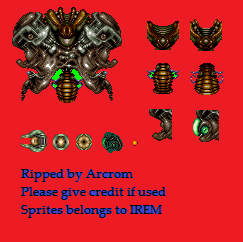
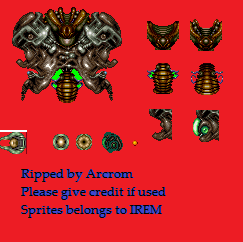
worm inici

Changed region(s): [[0.0, 0.5207, 0.2016, 0.6364]]

diff --git a/assets/Resources/main/characters/enemies/Worm.cpp b/assets/Resources/main/characters/enemies/Worm.cpp
@@ -5,13 +5,23 @@ Worm::Worm(glm::mat4 *project, int id, const glm::ivec2 &tileMapPos) :Character(
 }
 
 void Worm::init(const glm::ivec2 &tileMapPos) {
-	bJumping = false;
+	tileMapDispl = tileMapPos;
 
+	for (int i = 0; i <= 8; ++i) {
+		parts.push_back(new Part(projection,id,i,tileMapPos));
+	}
+
+
+	spritesheet.loadFromFile("images/enemies/Boss.png", TEXTURE_PIXEL_FORMAT_RGBA);
+	spritesheet.setWrapS(GL_CLAMP_TO_EDGE);
+	spritesheet.setWrapT(GL_CLAMP_TO_EDGE);
+	spritesheet.setMinFilter(GL_NEAREST);
+	spritesheet.setMagFilter(GL_NEAREST);
 	sprite = Sprite::createSprite(glm::ivec2(256, 128), glm::vec2(1 / 2.0, 1 / 2.0), &spritesheet, projection);
 	sprite->setNumberAnimations(1);
 
 	sprite->setAnimationSpeed(STAND_RIGHT, 8);
-	sprite->addKeyframe(STAND_RIGHT, glm::vec2(0.0625*0.0, 0.f));
+	sprite->addKeyframe(STAND_RIGHT, glm::vec2(0.0625*1.0, 0.f));
 
 	sprite->changeAnimation(0, false);
 	tileMapDispl = tileMapPos;
@@ -24,19 +34,37 @@ void Worm::init(const glm::ivec2 &tileMapPos) {
 #endif // SHOW_HIT_BOXES
 
 	sprite->setPosition(glm::vec2(float(tileMapDispl.x + pos.x), float(tileMapDispl.y + pos.y)));
+
 }
 
 void Worm::update(int deltaTime)
 {
-	/*  sprite->update(deltaTime);
-	pos.x += 2;
-	sprite->setPosition(glm::vec2(float(tileMapDispl.x + pos.x), float(tileMapDispl.y + pos.y)))^*/
+	for (int i = 0; i < parts.size(); ++i) {
+		parts[i]->update(deltaTime);
+	}
+}
+
+void Worm::render()
+{
+	for (int i = 0; i < parts.size(); ++i) {
+		parts[i]->render();
+	}
+}
+
+void Worm::setPosition(const glm::vec2 &pos) {
+	for (int i = 0; i < parts.size(); ++i) {
+		glm::vec2 aux = glm::vec2 (pos.x+i*20, pos.y);
+		parts[i]->setPosition(aux);
+	}
+	this->pos = pos;
+	sprite->setPosition(glm::vec2(float(tileMapDispl.x + pos.x), float(tileMapDispl.y + pos.y)));
+	collider->changePositionAbsolute(glm::vec2(tileMapDispl.x + pos.x, tileMapDispl.y + pos.y));
 }
 
 
 
-
-Part::Part(glm::mat4 *project, int id, const glm::ivec2 &tileMapPos) :Character(project, id, Collision::Enemy) {
+Part::Part(glm::mat4 *project, int id, int idBody, const glm::ivec2 &tileMapPos) :Character(project, id, Collision::Enemy) {
+	this->idBody = idBody;
 	init(tileMapPos);
 }
 
@@ -47,16 +75,31 @@ void Part::init(const glm::ivec2 &tileMapPos) {
 	spritesheet.setWrapT(GL_CLAMP_TO_EDGE);
 	spritesheet.setMinFilter(GL_NEAREST);
 	spritesheet.setMagFilter(GL_NEAREST);
-	sprite = Sprite::createSprite(glm::ivec2(256, 128), glm::vec2(1 / 2.0, 1 / 2.0), &spritesheet, projection);
-	if (id = 0) {
+	if (idBody == 0) {
+		sprite = Sprite::createSprite(glm::ivec2(26, 22), glm::vec2(1.f / 9.34f, 1.f / 11.f), &spritesheet, projection);
 		sprite->setNumberAnimations(1);
 
-		sprite->setAnimationSpeed(STAND_RIGHT, 8);
-		sprite->addKeyframe(STAND_RIGHT, glm::vec2(0.0625*0.0, 0.f));
+		sprite->setAnimationSpeed(0, 8);
+		sprite->addKeyframe(0, glm::vec2(1.f / 9.34f*0.f, 1.f / 11.f*6.f));
 	}
-	else if (id =8) {
+	else if (idBody == 8) {
+		sprite = Sprite::createSprite(glm::ivec2(16, 16), glm::vec2(1 / 16.0, 1 / 16.0), &spritesheet, projection);
+		sprite->setNumberAnimations(1);
+
+		sprite->setAnimationSpeed(0, 8);
+		sprite->addKeyframe(0, glm::vec2(0.0625f*4.f, 0.0625f*5.f));
+		rotate(0.f,180.f, 0.f);
 	}
 	else {
+		sprite = Sprite::createSprite(glm::ivec2(16, 16), glm::vec2(1.f / 20.f, 1 / 16.0), &spritesheet, projection);
+		sprite->setNumberAnimations(2);
+
+		sprite->setAnimationSpeed(0, 8);
+		sprite->addKeyframe(0, glm::vec2(1.f/12.5f*3.f, 0.0625f*9.f));
+		rotate(0.f, 180.f, 0.f);
+		sprite->setAnimationSpeed(1, 8);
+		sprite->addKeyframe(1, glm::vec2(0.0625f*5.f, 0.0625f*5.f));
+		rotate(0.f, 180.f, 0.f);
 	}
 	
 

diff --git a/assets/Resources/main/scenes/GameScene.cpp b/assets/Resources/main/scenes/GameScene.cpp
@@ -37,7 +37,11 @@ void GameScene::init() {
 	cFactory->setMap(map);
 
 	cFactory->spawnCharacter(CharacterFactory::CharacterAvailable::cPlayer, glm::vec2(INIT_PLAYER_X_TILES * map->getTileSize()-100, INIT_PLAYER_Y_TILES * map->getTileSize()+50));
-	cFactory->spawnCharacter(CharacterFactory::CharacterAvailable::cBoss, glm::vec2(INIT_PLAYER_X_TILES * map->getTileSize(), INIT_PLAYER_Y_TILES * map->getTileSize()));
+	cFactory->spawnCharacter(CharacterFactory::CharacterAvailable::cWorm, glm::vec2(INIT_PLAYER_X_TILES * map->getTileSize(), INIT_PLAYER_Y_TILES * map->getTileSize()));
+	cFactory->spawnCharacter(CharacterFactory::CharacterAvailable::cEnemy1, glm::vec2(INIT_PLAYER_X_TILES * map->getTileSize() + 20, INIT_PLAYER_Y_TILES * map->getTileSize()+20));
+	cFactory->spawnCharacter(CharacterFactory::CharacterAvailable::cEnemy2, glm::vec2(INIT_PLAYER_X_TILES * map->getTileSize() + 40, INIT_PLAYER_Y_TILES * map->getTileSize() + 20));
+	cFactory->spawnCharacter(CharacterFactory::CharacterAvailable::cEnemy3, glm::vec2(INIT_PLAYER_X_TILES * map->getTileSize() + 60, INIT_PLAYER_Y_TILES * map->getTileSize() + 20));
+	cFactory->spawnCharacter(CharacterFactory::CharacterAvailable::cEnemy4, glm::vec2(INIT_PLAYER_X_TILES * map->getTileSize() + 80, INIT_PLAYER_Y_TILES * map->getTileSize() + 20));
 
 }
 

diff --git a/assets/Resources/main/characters/enemies/Worm.h b/assets/Resources/main/characters/enemies/Worm.h
@@ -2,7 +2,20 @@
 #define _WORM_INCLUDE
 
 #include "characters\Character.h"
+#include <vector>
 
+class Part : public Character {
+public:
+
+	Part(glm::mat4 *project, int id, int idBody, const glm::ivec2 &tileMapPos);
+
+	void update(int deltaTime);
+
+private:
+
+	void init(const glm::ivec2 &tileMapPos);
+	int idBody;
+};
 
 class Worm : public Character {
 
@@ -11,22 +24,14 @@ public:
 	Worm(glm::mat4 *project, int id, const glm::ivec2 &tileMapPos);
 
 	void update(int deltaTime);
+	void render();
+	void setPosition(const glm::vec2 &pos);
 
 private:
 
 	void init(const glm::ivec2 &tileMapPos);
+	std::vector<Part*> parts;
 };
 
 #endif // _WORM_INCLUDE
 
-class Part : public Character {
-public:
-
-	Part(glm::mat4 *project, int id, const glm::ivec2 &tileMapPos);
-
-	void update(int deltaTime);
-
-private:
-
-	void init(const glm::ivec2 &tileMapPos);
-};

diff --git a/assets/Resources/main/characters/Character.h b/assets/Resources/main/characters/Character.h
@@ -20,14 +20,14 @@ public:
 	virtual void update(int deltaTime);
 	virtual void render();
 
-	void setTileMap(TileMap *tileMap);
+	virtual void setTileMap(TileMap *tileMap);
 	virtual void setPosition(const glm::vec2 &pos);
 	glm::vec2 getPosition() { return pos; };
 
 protected:
 
 	virtual void init(const glm::ivec2 &tileMapPos);
-	void rotate(const float &angleX, const float &angleY, const float &angleZ);
+	virtual void rotate(const float &angleX, const float &angleY, const float &angleZ);
 
 	bool bJumping;
 	bool rot;

diff --git a/assets/Resources/main/characters/CharacterFactory.h b/assets/Resources/main/characters/CharacterFactory.h
@@ -9,6 +9,7 @@
 #include "enemies\Enemy3.h"
 #include "enemies\Enemy4.h"
 #include "enemies\Boss.h"
+#include "enemies\Worm.h"
 #include "player\Player.h"
 
 class CharacterFactory {
@@ -20,7 +21,7 @@ private:
 	~CharacterFactory();
 
 public:
-	enum CharacterAvailable{cPlayer, cEnemy1, cEnemy2, cEnemy3, cEnemy4, cBoss};
+	enum CharacterAvailable{cPlayer, cEnemy1, cEnemy2, cEnemy3, cEnemy4, cBoss, cWorm};
 	Player *player = nullptr;
 
 	static CharacterFactory *getInstance();

diff --git a/assets/Resources/main/characters/CharacterFactory.cpp b/assets/Resources/main/characters/CharacterFactory.cpp
@@ -52,6 +52,10 @@ void CharacterFactory::spawnCharacter(int type, const glm::vec2 &pos) {
 			character = new Boss(projection, last_id, tileMapPos);
 			character->setPosition(pos);
 			break;
+		case cWorm:
+			character = new Worm(projection, last_id, tileMapPos);
+			character->setPosition(pos);
+			break;
 		default:
 			character = new Enemy1(projection, last_id, tileMapPos);
 			character->setPosition(pos);

diff --git a/assets/Resources/main/characters/enemies/Boss.cpp b/assets/Resources/main/characters/enemies/Boss.cpp
@@ -64,7 +64,5 @@ void Boss::init(const glm::ivec2 &tileMapPos) {
 
 void Boss::update(int deltaTime)
 {
-  /*  sprite->update(deltaTime);
-    pos.x += 2;
-    sprite->setPosition(glm::vec2(float(tileMapDispl.x + pos.x), float(tileMapDispl.y + pos.y)))^*/
+  
 }
